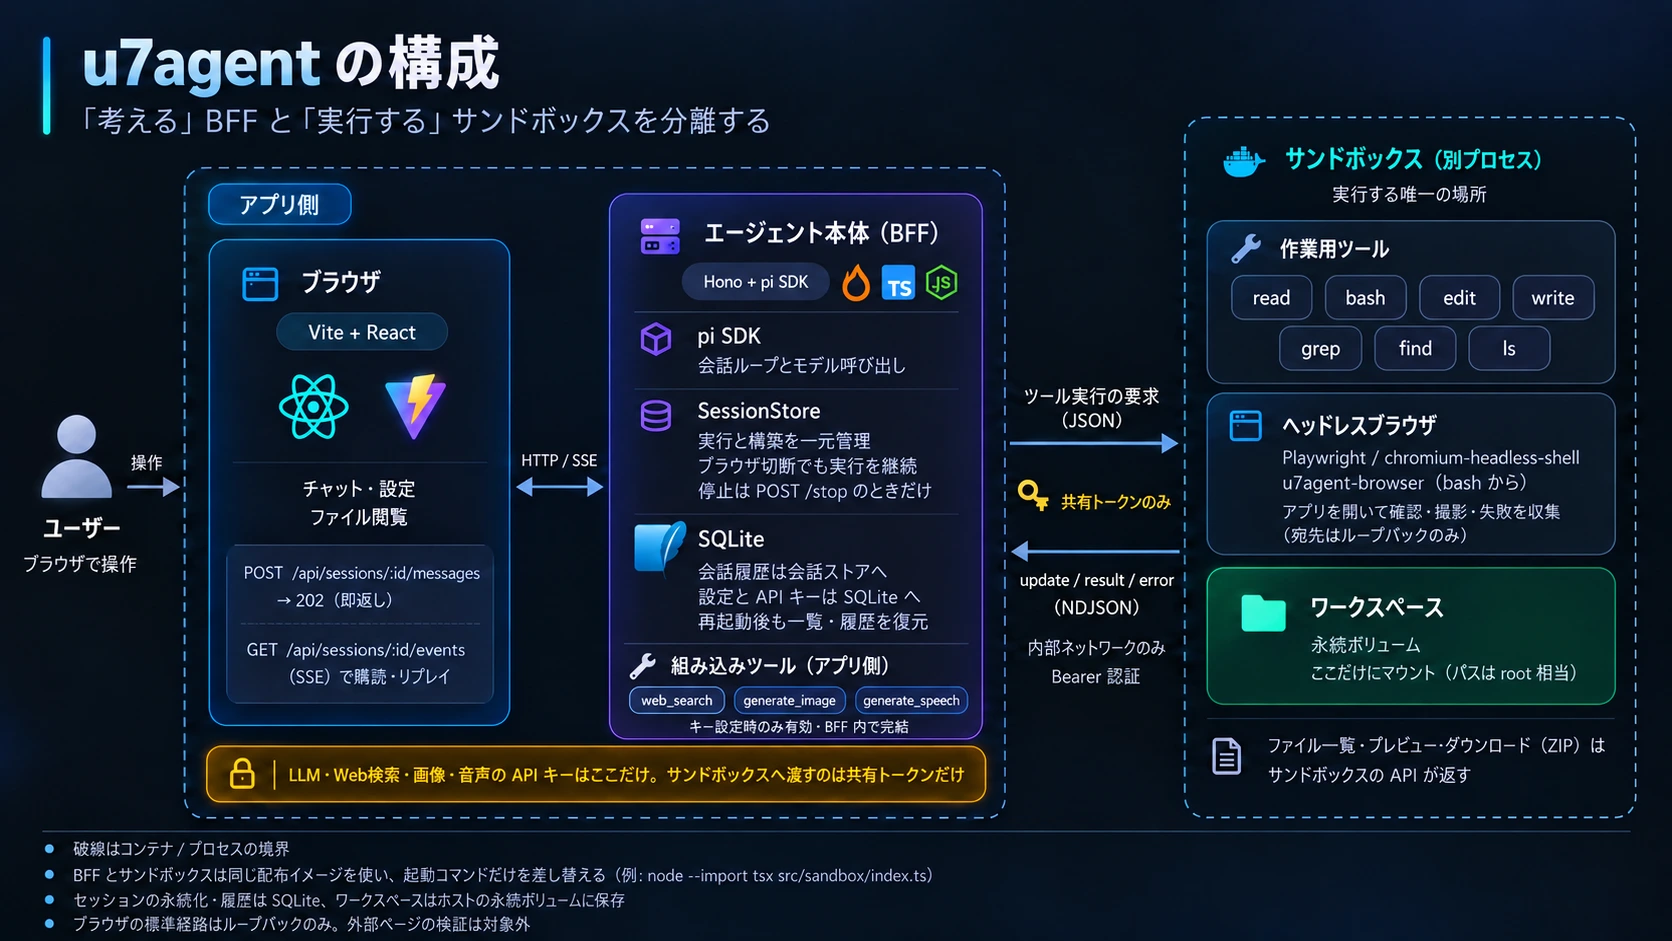
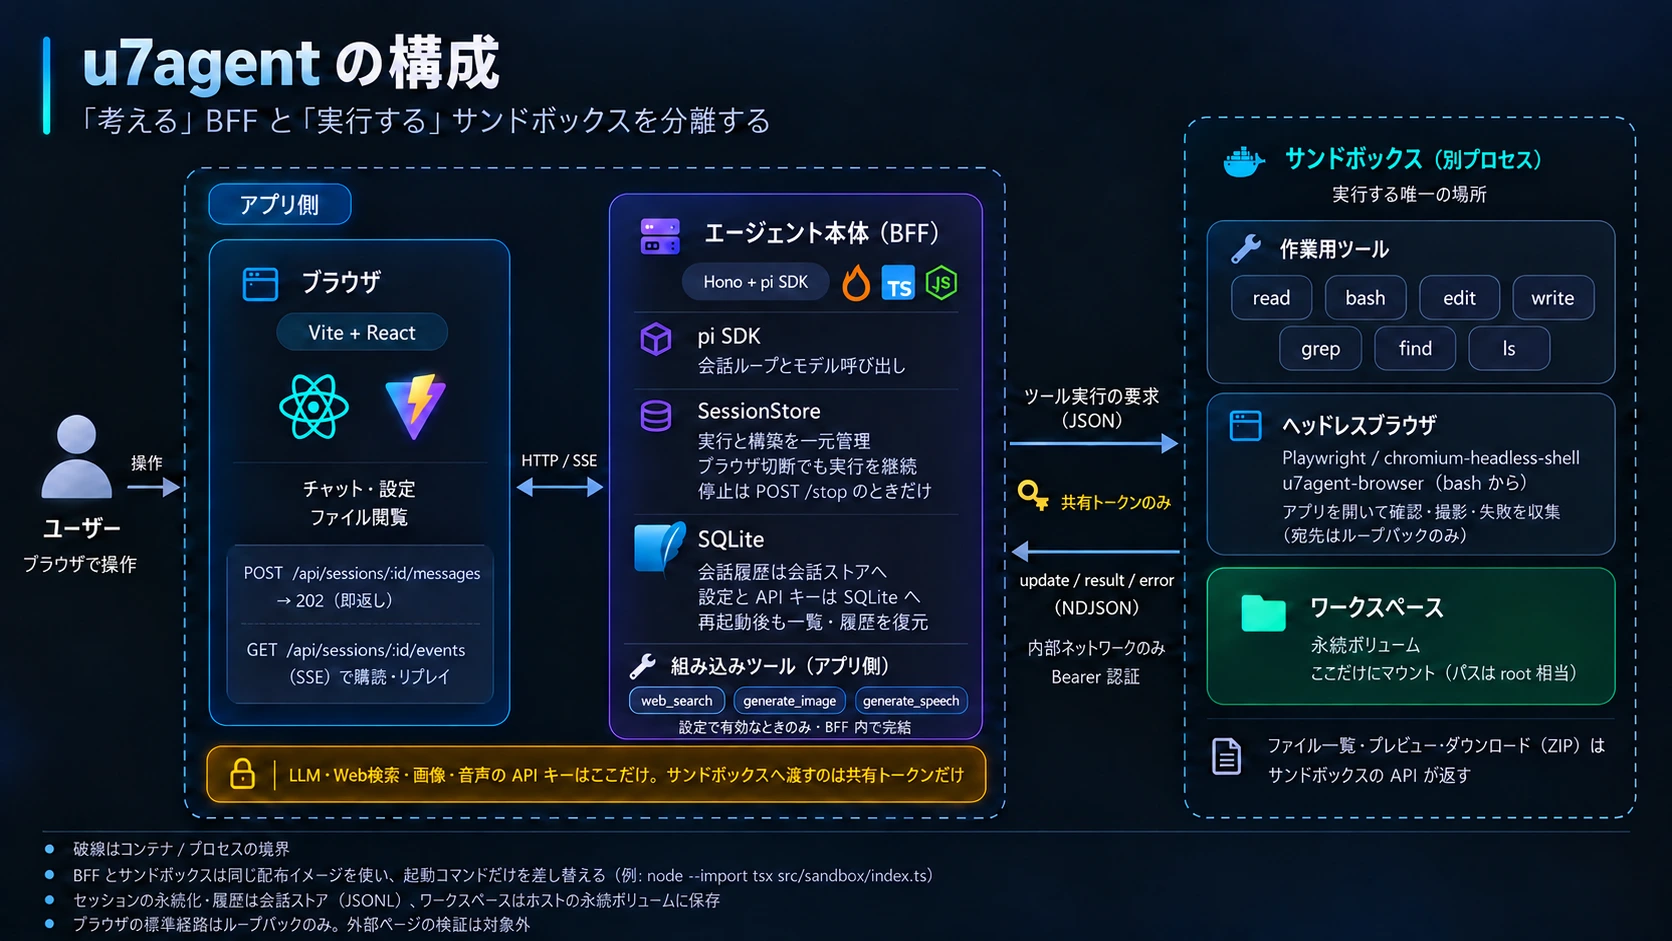
docs(u7agent): fix the tool condition and the persistence note in the diagram
Review found that the built-in tools row described web_search as available only
with an API key, but it is gated by the runtime toggle and the default Exa
provider needs no key. The footer note also still claimed the conversation
history lives in SQLite, while only the app data does. State the tool condition
at the settings level and correct the note to the JSONL conversation store.

diff --git a/projects/u7agent/README.md b/projects/u7agent/README.md
@@ -30,7 +30,7 @@ pnpm dev   # サンドボックス + BFF + Vite をまとめて起動 → http:/
 - **ファイルの持ち出し（ダウンロード）** — 設定 → ファイル と右パネルのツリーの行から保存できます。ファイルは元の名前のまま生バイトで、フォルダは ZIP です。除外規則と上限は [docs/file-preview.md](docs/file-preview.md#ダウンロード)
 - **スキル** — エージェント定義スキル / ファイルスキル（`.agents/skills`）/ 組み込みスキルの 3 種類があり、入力欄から `/skill:<name>` で展開します（[docs/persistence.md](docs/persistence.md#スキルの扱い) / [docs/api-catalog.md](docs/api-catalog.md#ファイルスキルagentsskills)）
 - **サービス（serve）** — エージェントが起動した Web サーバーを別タブで開き、トップバーから起動・停止・入れ替えができます（[docs/sandbox.md](docs/sandbox.md#serveサービスの公開と起動停止)）
-- **組み込みツール（Web 検索 / 画像生成 / 音声生成）** — 設定 → Web 検索（`/settings/web-search`）と設定 → コンテンツ生成（`/settings/content`）でキーを登録すると、モデルから `web_search` / `generate_image` / `generate_speech` を呼べます。生成した画像と音声は作業フォルダへ保存し、チャットでプレビュー・再生できます（[docs/web-search.md](docs/web-search.md) / [docs/image-generation.md](docs/image-generation.md) / [docs/speech-generation.md](docs/speech-generation.md)）
+- **組み込みツール（Web 検索 / 画像生成 / 音声生成）** — 設定 → Web 検索（`/settings/web-search`）と設定 → コンテンツ生成（`/settings/content`）で有効にすると、モデルから `web_search` / `generate_image` / `generate_speech` を呼べます。生成した画像と音声は作業フォルダへ保存し、チャットでプレビュー・再生できます（[docs/web-search.md](docs/web-search.md) / [docs/image-generation.md](docs/image-generation.md) / [docs/speech-generation.md](docs/speech-generation.md)）
 - **ヘッドレスブラウザ** — 固定版の Chromium をサンドボックスへ同梱し、エージェントが `bash` から `u7agent-browser` で起動中のアプリを開いて確認・撮影・失敗の収集ができます（[docs/browser.md](docs/browser.md)。使い方は組み込みスキル `browser`）
 - **通知（Discord）** — 会話ごとのトグルが On のとき、応答の先頭 200 文字を 1 通送ります。応答が返らない質問待ちでも、設定 → 通知の「質問の通知」を On にしていれば、質問が発生したことと会話のリンクが届きます。会話の通知が Off の場合は本文なし、On の場合はタイトルと第 1 問も載ります（[docs/notifications.md](docs/notifications.md)）
 
